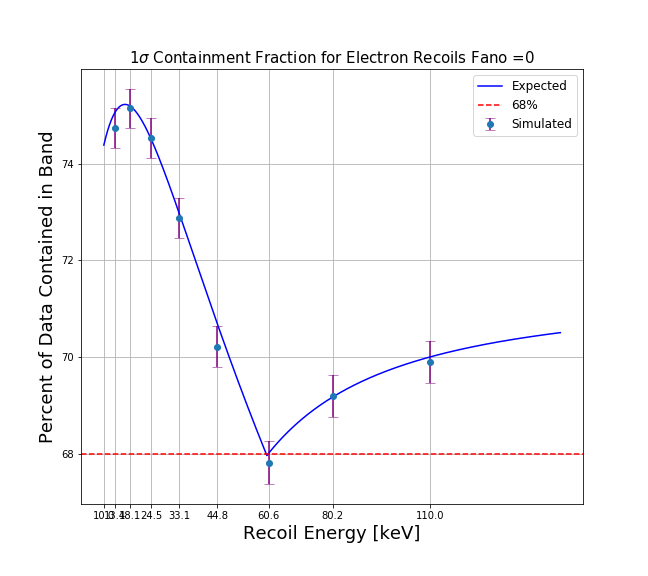
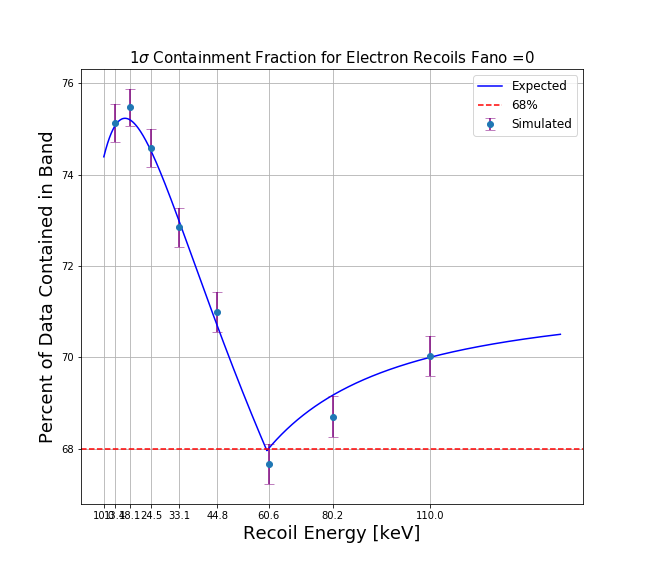
Found/Fixed Issue

diff --git a/Mitch/bin_data_check.py b/Mitch/bin_data_check.py
@@ -35,25 +35,10 @@ def bin_check(df,s,band_func,bins,cut_idx,expected,Er_true,fano):
     
    # print("before sort Er_true is:",Er_true)
     recoil_type, upper,lower = band_func(df.E_true,s)
-
-    #Data = np.vstack((Er,Yield,upper,lower,EP,EQ,sigp,sigq,Er_true)).T
-    #Data1 = Data[np.argsort(Data[:, 0])]
-    
     df1 = pd.DataFrame({'upper':upper,'lower':lower})
-    
     df = pd.concat([df,df1],axis=1)
-
-    #bins  = [10,13.4,18.1,24.5,33.1,44.8,60.6,80.2,110] #use 8
-   # bins = [9,16,25.2,40.3,75.2]
-
     df['bin'] = pd.cut(df[cut_idx],bins)
 
-    
-   # return df1
-        
-
-
-    #for q in np.arange(0,8):
     for bin_name, bin_data in df.groupby('bin'):
 
         
@@ -76,12 +61,9 @@ def bin_check(df,s,band_func,bins,cut_idx,expected,Er_true,fano):
             N_mean = np.array(bin_data.N_mean) #Sigma_q
             SN = np.array(bin_data.sig_N)
              
-
             bincenters.append(np.mean(E_true))
-
             bin_center = bin_name.mid
-            
-            #print(x)
+
 
             #look at distributions graphically f
             k= (V/eps/1000)
@@ -99,25 +81,19 @@ def bin_check(df,s,band_func,bins,cut_idx,expected,Er_true,fano):
             percent1 = 100*(N - (up+down))/N
             Percent1.append(percent1)
 
-        
-            p_up = N-up/N 
-            p_down = N-down/N
 
 
             #g = integrate.quad(lambda x: dist_check(x,Ep_mean,Eq_mean,Sp_mean,Sq_mean,k),np.mean(upper_bound),np.mean(lower_bound) )
             g = integrate.quad(lambda x: dist_check_fano(x,E,N_mean,Sp_mean,Sq_mean,SN),np.mean(upper_bound),np.mean(lower_bound))
             H =g[0]*100
-            #H = g*500
-           # print('Area under curve is:',g)
-            expected1.append(H)
+            expected1.append(H) #binned (for data points)
 
 
             n = (N-up-down)
             p = n/N
-
             sig_d = np.sqrt((N*p*(1-p)))/N
-            Error.append(sig_d*100)
-
+            Error.append(sig_d*100) # error in expected containment (data) ss
+                                                                                   
             #looking at symmetry 
             percent2 = 100*(N - (2*up))/N
             percent3 = 100*(N - (2*down))/N
@@ -129,7 +105,7 @@ def bin_check(df,s,band_func,bins,cut_idx,expected,Er_true,fano):
             n2 = N-down
 
             sig_up = np.sqrt((2/N)**2*(N*((n1/N)*(1-(n1/N)))))
-            sig_down = np.sqrt((2/N)**2*(N*((n2/N)*(1-(n2/N)))))
+            sig_down = np.sqrt((2/N)**2*(N*((n2/N)*(1-(n2/N)))))         
 
             sig_high.append(100*sig_up)
             sig_low.append(100*sig_down)
@@ -145,8 +121,6 @@ def bin_check(df,s,band_func,bins,cut_idx,expected,Er_true,fano):
     print('--------------------------------------------')  
     print(s,"SIGMA",recoil_type, "RECOIL BAND")
     print('--------------------------------------------')  
-    #'10-13.4','13.4-18.1','18.1-24.5','24.5-33.1','33.1-44.8','44.8-60.6','60.6-80.2','80.2-110','110-150'
-
     print("Bin Spacing (keV)", '\t', "Percent in band",'\t', "Expected",'\t', '\t', "Percent from high", '\t', "Percent from low")     #table column headings
     print("--------------", '\t', '\t' "-------------------", '\t' "-------------------", '\t' "-------------------", '\t' "-------------------")
     bin_spacing = np.array(bin_names).astype(str)
@@ -155,15 +129,6 @@ def bin_check(df,s,band_func,bins,cut_idx,expected,Er_true,fano):
         print(x, '\t','\t', '{0:1.2f}'.format(y), '\t','±','{0:1.2f}'.format(e),'%', '\t','{0:1.2f}'.format(np.abs(h)), '\t','\t','\t','{0:1.2f}'.format(z), '\t','±','{0:1.2f}'.format(t),'\t', '{0:1.2f}'.format(q), '\t','±','{0:1.2f}'.format(l))
             
     print('--------------------------------------------')
-    
-    
-    #bin = [10.7,25.2,40.3]
-   
-    
-    
-    #f = np.linspace(11,96,100)
-    
-    #print(len(Percent1),len(bin))
     
     fig,axes = plt.subplots(1,1,figsize=(9.0,8.0),sharex=True)
     ax1 = axes

diff --git a/Mitch/data_sim.py b/Mitch/data_sim.py
@@ -25,9 +25,9 @@ from Data_check_continuous import *
 
 
 #%%
-N = 10000
+N = 100000
 s = 1
-fano = 3 # 'known' fano factor for electron recoils. 
+fano =0 # 'known' fano factor for electron recoils. 
 
 bins = np.array([10,13.4,18.1,24.5,33.1,44.8,60.6,80.2,110])
 
@@ -93,50 +93,22 @@ def sigmap(Ep):
 def sigp_der(Ep):
     return 0.5*np.power(p_alpha + p_beta*Ep + p_gamma*(Ep**2),-0.5)*(p_beta + 2*p_gamma*(Ep))
 
-Eq = np.linspace(10,170,10000)
-Ep = np.linspace(20,250,10000)
-
+Eq = np.linspace(10,170,100000)
+Ep = np.linspace(20,250,100000)
 
 
 
 
 plt.figure(figsize=(8, 6))
-plt.plot(Eq,sigmaq(Eq))
-plt.axvline(x = 60+sigmaq(60),color = 'black',linestyle = '--',label = '$1\sigma$')
-plt.axvline(x = 60-sigmaq(60), color = 'black',linestyle = '--')
-plt.title('$\sigma_q vs. E_q$',size = '20')
-plt.xlabel('$E_q$',size = '18')
-#plt.xscale('log')
-plt.ylabel('$\sigma_q$',size = '18')
-plt.legend(loc=1,prop={'size':12})
-plt.grid(True)
-
-plt.figure(figsize=(8, 6))
-plt.plot(Ep,sigmap(Ep))
-plt.axvline(x = 100+sigmap(100),color = 'black',linestyle = '--',label = '$1\sigma$')
-plt.axvline(x = 100-sigmap(100), color = 'black',linestyle = '--')
-plt.title('$\sigma_p  vs. E_p$',size = 20 )
-plt.xlabel('$E_p$',size = '18')
-#plt.xscale('log')
-plt.ylabel('$\sigma_p$',size = '18')
-plt.legend(loc=1,prop={'size':12})
-plt.grid(True)
-
-
-
-plt.figure(figsize=(8, 6))
-plt.plot(Eq,sigq_der(Eq))
-plt.title("Derivative of $\sigma_q$ ")
+#plt.plot(Eq,sigq_der(Eq))
+plt.plot(Ep,df_count.sig_p_var,label = 'Varried N')
+plt.plot(Ep,df_count.sigp_mean,label = 'Varried SigP')
+plt.title("simgap compare ")
 plt.ylabel('$\sigma_q^|$')
 plt.xlabel('$E_q$')
+plt.legend()
 plt.grid(True)
 
-plt.figure(figsize=(8, 6))
-plt.plot(Ep,sigp_der(Ep))
-plt.title("Derivative of $\sigma_p$ ")
-plt.ylabel('$\sigma_p^|$')
-plt.xlabel('$E_p$')
-plt.grid(True)
 
 plt.show()
 

diff --git a/Mitch/ER_Yield.py b/Mitch/ER_Yield.py
@@ -60,6 +60,6 @@ def Yield_Er(Er_True,fano):
     Er_m = np.sort(Er)
 
 
-    df = pd.DataFrame({'E_measured':Er_m,'EQ_smear':Eq_smear,'EP_smear':Ep_smear,'N_mean':N_mean,'sig_N':sigN,'E_true':Eer,'E_measured':Er,'Yield':Yield,'Ep_mean':E_p_mean,'Eq_mean':E_q_mean,'sigp_mean':sig_p_mean,'sigq_mean':sig_q_mean})
+    df = pd.DataFrame({'E_measured':Er_m,'EQ_smear':Eq_smear,'EP_smear':Ep_smear,'N_mean':N_mean,'sig_N':sigN,'E_true':Eer,'E_measured':Er,'Yield':Yield,'Ep_mean':E_p_mean,'Eq_mean':E_q_mean,'sigp_mean':sig_p_mean,'sig_p_var':sig_p_var,'sigq_mean':sig_q_mean,'Ep_var':E_p_var})
     
     return df
